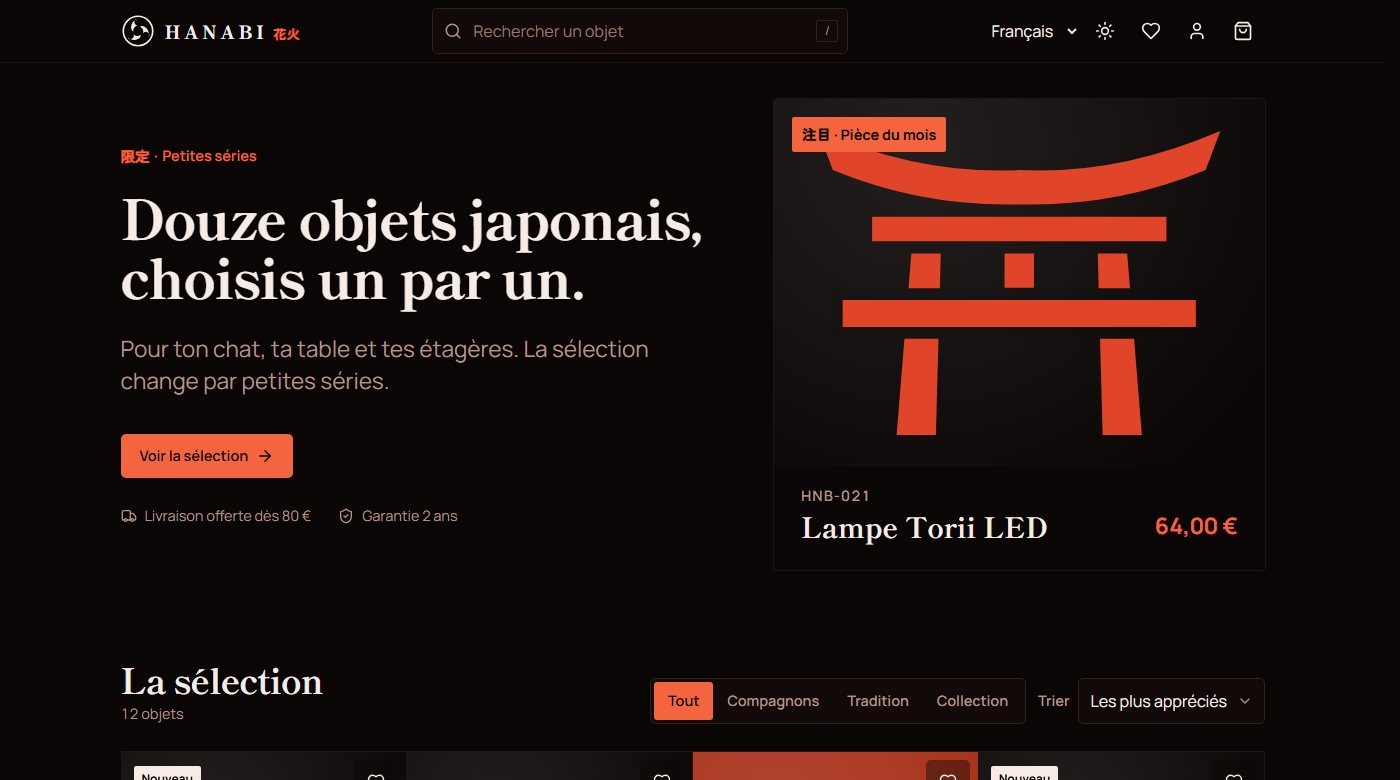
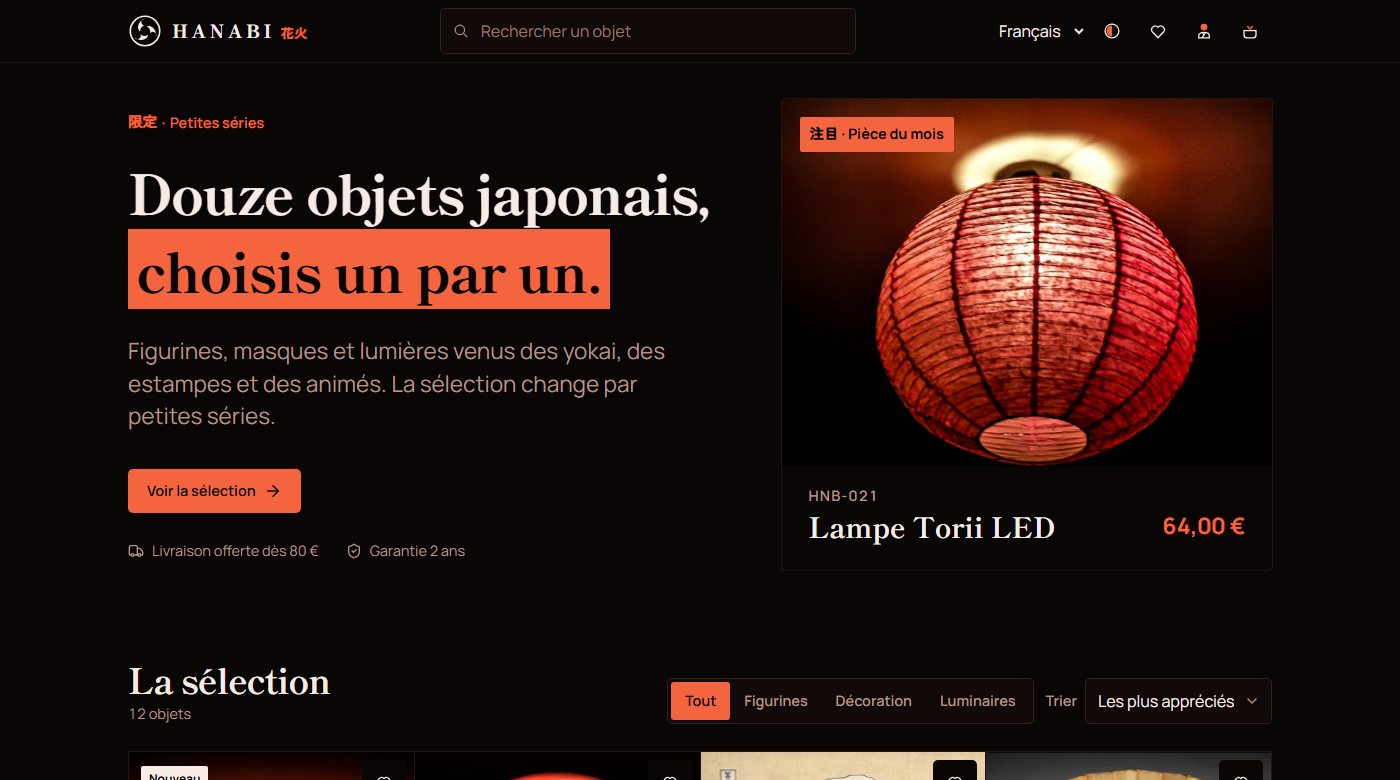
docs : Captures du catalogue actuel, sur un entrepôt réellement construit
Les captures montraient encore les objets pour animaux, et un onglet Entrepôt
nourri de réponses simulées. Elles sont refaites sur le build de production,
avec un PostgreSQL rempli comme la production (100 000 comptes) et l'entrepôt
construit par Dagster. La fiche produit rejoint l'aperçu, et l'image de partage
suit.

diff --git a/README.md b/README.md
@@ -29,8 +29,13 @@ licence. Chaque objet est photographié (photos Unsplash, crédits dans les
 mentions légales) ; un objet sans photo reçoit un blason dessiné en SVG, sur la
 grammaire des kamon. Titres en Shippori Mincho, texte en Manrope.
 
-Panier en tiroir, avec code promo, jauge de livraison offerte, date de livraison
-estimée et total recalculé par le serveur.
+La fiche pose l'objet sur une plaque de vermillon pleine largeur. La photo
+s'agrandit au clic, à la molette, au pincement ou au clavier.
+
+![Fiche produit de la Lampe Torii LED, sur sa plaque de vermillon](docs/fiche.jpg)
+
+Panier en tiroir, avec codes promo applicables d'un clic, jauge de livraison
+offerte, date de livraison estimée et total recalculé par le serveur.
 
 ![Panier ouvert sur la page d'accueil](docs/panier.jpg)
 
@@ -43,8 +48,10 @@ Sur téléphone, la navigation passe dans un menu en tiroir.
 <img src="docs/mobile.jpg" alt="Plateau d'objets et menu en tiroir sur téléphone" width="440">
 
 Le back-office reprend la même charte, en plus dense. L'onglet Entrepôt montre
-les trois couches, la fraîcheur de la dernière construction, chaque table
-d'agrégats avec la question qu'elle traite, et une console SQL en lecture seule.
+les trois couches, la fraîcheur de la dernière construction, les contrôles de
+volume et de fraîcheur, chaque table d'agrégats avec la question qu'elle traite,
+et une console SQL en lecture seule. Capture faite sur un entrepôt réellement
+construit, à partir d'une base remplie comme celle de production.
 
 ![Onglet Entrepôt du back-office](docs/entrepot.jpg)
 
